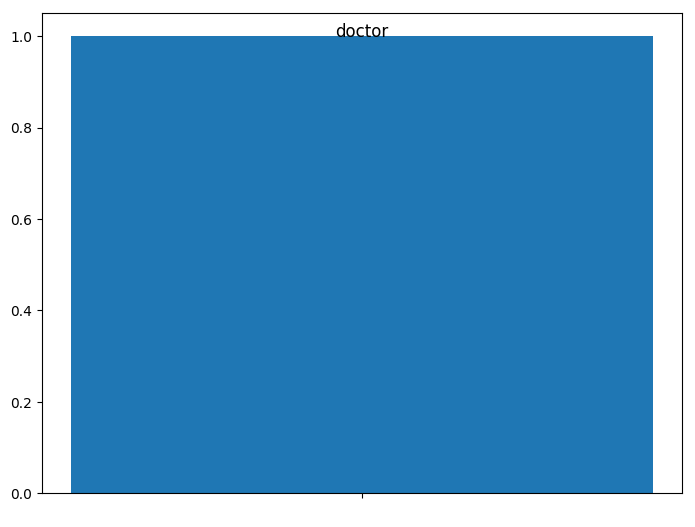
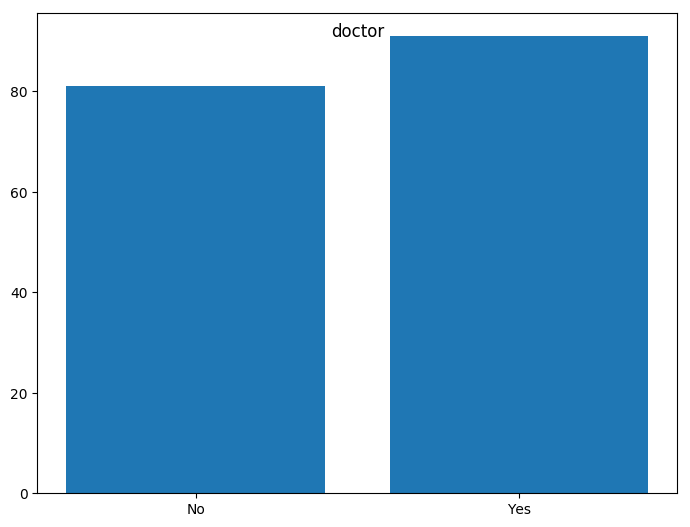
restructured api calls to offload more work onto SQL queries rather than python methods, implemented full names retreival, in process of implementing stacked bar chart

diff --git a/datasource.py b/datasource.py
@@ -3,6 +3,7 @@ import psqlConfig as config
 import matplotlib
 matplotlib.use('Agg')
 import matplotlib.pyplot as plt
+import numpy as np
 
 
 
@@ -29,65 +30,113 @@ class DataSource:
         Note: exits if a connection cannot be established.
         '''
         try:
-            print("database = " + config.database + " user = " + config.user + " password = " +config.password)
             connection = psycopg2.connect(database=config.database, user=config.user,
                                           password=config.password, host=config.host)
         except Exception as e:
             print("Connection error: ", e)
             exit()
         return connection
-
-    def get_data(self, first_column, second_column="NONE"):
-        '''
-        Retreives the data in the specified column or columns
-
-        Parameters:
-            first_column - the first (or only) column to be retrieved
-            second_column (optional) - the second column to be retrieved if specified, otherwise unused
-
-        Returns:
-            All data from the specified column(s)
-        '''
+        
+    def get_data(self, column):
+        answers = self.get_answers(column)
         try:
             cursor = self.connection.cursor()
-            if second_column == "NONE":
-                query = "SELECT " + first_column + " FROM lonelinesssurveyshort;"
-                cursor.execute(query, (first_column,))
-            else:
-                query = "SELECT " + first_column + ", " + second_column + " FROM lonelinesssurveyshort;"
-                cursor.execute(query, (first_column, second_column,))
+            query = ""
+            for answer in answers:
+                if answer == ('No Response',):
+                    answer = (' ',)
+                if not len(query) == 0:
+                    query += "\nUNION ALL\n"
+                query += "SELECT COUNT(" + column + ") FROM lonelinesssurveyshort WHERE " + column + "='" + answer[0] + "'"
+            query += ";"
+            cursor.execute(query, (column,))
             return cursor.fetchall()
         except Exception as e:
             print("Something went wrong when executing the query: ", e)
             return None
-
+    
+    def get_answers(self, column):
+        try:
+            cursor = self.connection.cursor()
+            query = "SELECT DISTINCT " + column + " FROM lonelinesssurveyshort;"
+            cursor.execute(query, (column,))
+            answers = cursor.fetchall()
+            for answer in answers:
+              if answer == (' ',):
+                  answer = ('No Response',)
+            return answers
+        except Exception as e:
+            print("Something went wrong when executing the query: ", e)
+            return None
+    
+    def get_comparative_data(self, first_column, second_column):
+        first_answers = get_answers(first_column)
+        second_answers = get_answers(seond_column)
+        try:
+            cursor = self.connection.cursor()
+            query = ""
+            for first_answer in first_answers:
+                if first_answer == ('No Response',):
+                    first_answer = (' ',)
+                for second_answer in second_answers:
+                    if second_answer == ('No Response',):
+                        second_answer = (' ',)
+                    if not len(query) == 0:
+                        query += "\nUNION ALL\n"
+                    query += "SELECT COUNT(" + first_column + ", " + second_column + ") FROM lonelinesssurveyshort WHERE " 
+                    query += first_column + "='" + first_answer[0] + " AND(" + second_column + "='" + second_answer[0] + "')"
+            query += ";"
+            cursor.execute(query, (column,))
+            return cursor.fetchall()
+        except Exception as e:
+            print("Something went wrong when executing the query: ", e)
+            return None
+        
+    
+    def get_name(self, alias):
+        '''
+        retreives the unshortened version of alias from the database
+        
+        Parameters:
+            alias - the shortened name
+            
+        Returns:
+            the full version of the name
+        '''
+        try:
+            cursor = self.connection.cursor()
+            query = "SELECT fullname FROM aliases WHERE id = " + alias + ";"
+            return cursor.fetchall()
+        except Exception as e:
+            print("Something went wrong when executing the query: ", e)
+            return None
+    
 
     def plot_data(self, first_column, second_column="NONE"):
-        data = self.get_data(first_column, second_column)
         self.fig = plt.figure()
+        self.ax = self.fig.add_axes([0,0,1,1])
+        
         if second_column == "NONE":
-            self.__plot_bar(data, first_column)
-            self.fig.savefig("plot.png", bbox_inches="tight")
+            self.__plot_bar(first_column)
+        else:
+            self.__plot_two_variables(first_column, second_column)
+            
+        
+        self.fig.savefig("plot.png", bbox_inches="tight")
+        
 
-    def __plot_bar(self, data, name):
-        answer_frequencies = self.get_answer_frequencies(data)
-        ax = self.fig.add_axes([0,0,1,1])
-        ax.bar(answer_frequencies[0].keys(), answer_frequencies[0].values())
-        self.fig.suptitle(name)
-
-    def get_answer_frequencies(self, data):
-        answer_frequencies = []
-        for column in data:
-            column_answer_frequencies = {}
-            for data_point in column:
-                if data_point in column_answer_frequencies:
-                    column_answer_frequencies[data_point] += 1
-                else:
-                    column_answer_frequencies[data_point] = 1
-            answer_frequencies.append(column_answer_frequencies)
-        return answer_frequencies
-
-
+    def __plot_one_variable(self, column):
+        answers = get_answers(column)
+        ax.bar(get_answers(column), get_data(column))
+        self.fig.suptitle(get_name(first_column))
+    
+    def __plot_two_variables(self, first_column, second_column):
+        first_answers = get_answers(first_column)
+        second_answers = get_answers(seond_column)
+        num_bars = len(first_answers) * len(second_answers)
+        bar_x_positions = np.arrange(num_bars)
+        ax.bar(bar_x_positions, 
+        
 if __name__ == '__main__':
     data_source = DataSource()
-    data_source.plot_data("doctor")
+    print(data_source.get_comparative_data('doctor', 'socialgroup'))
